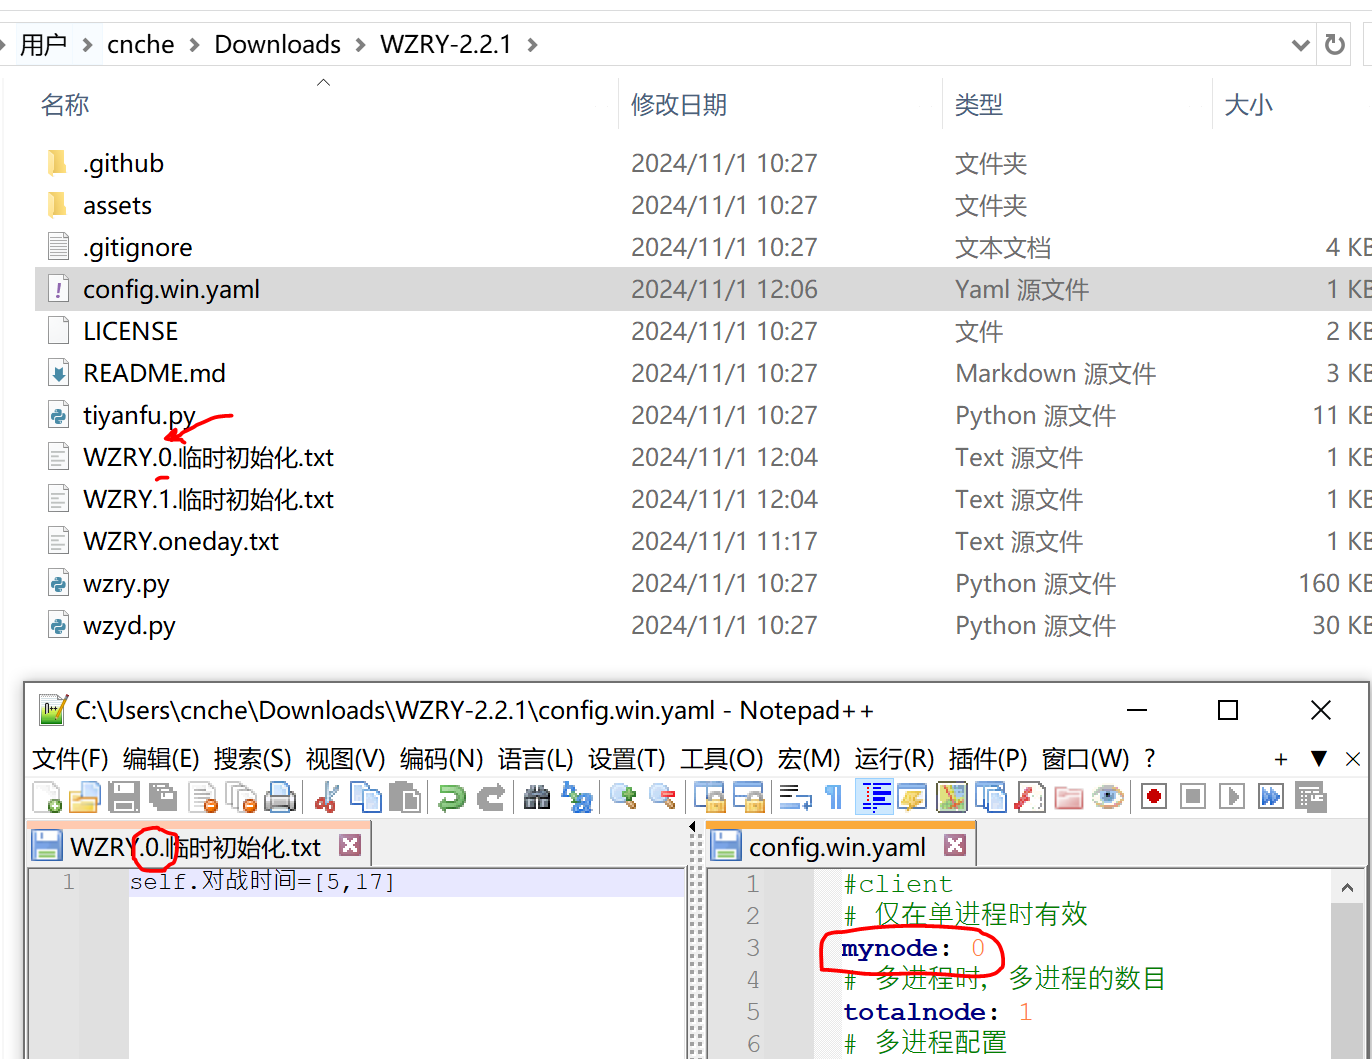
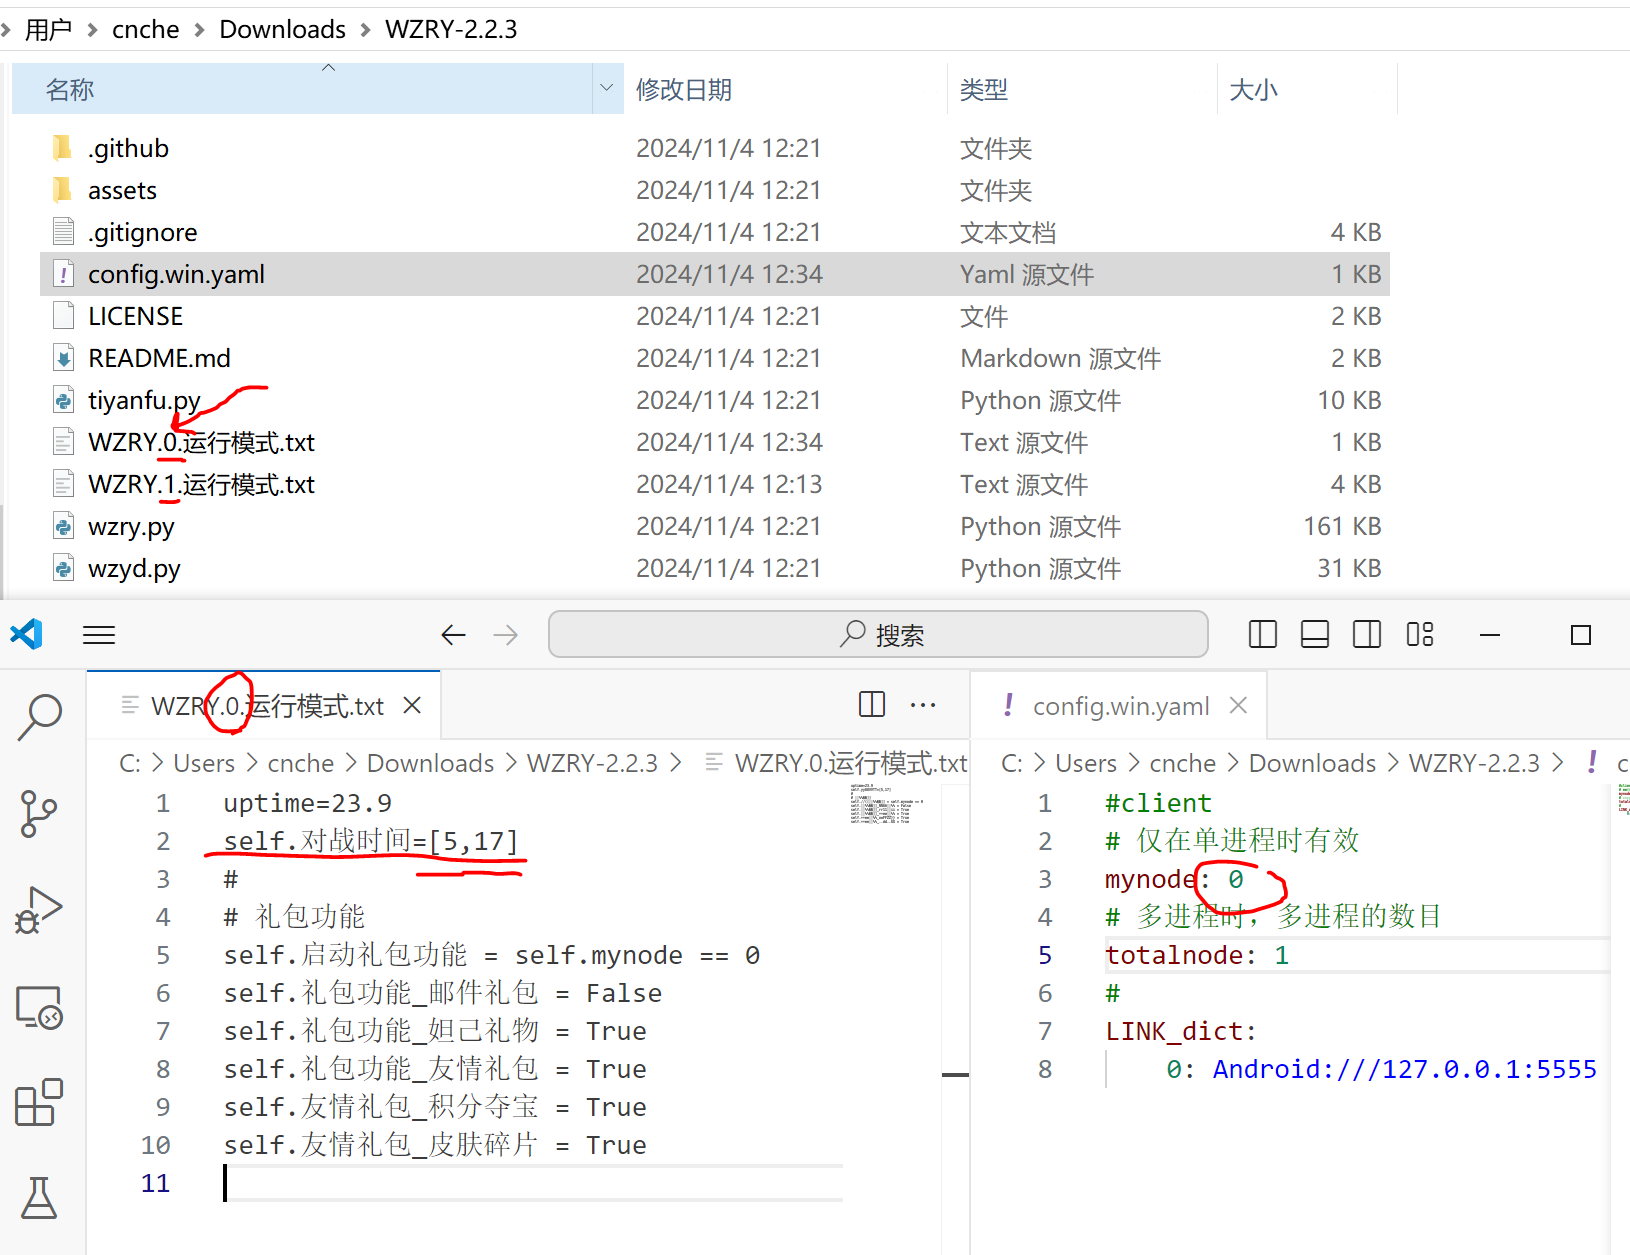
auto Mon Nov  4 12:42:15     2024

diff --git a/docs/exp/duizhanmoshi.md b/docs/exp/duizhanmoshi.md
@@ -1,0 +1,82 @@
+# 运行模式配置示例
+## 说明
+* 该页面是介绍我的使用经验,不是教程
+* 随着软件更新,这些经验可能不再适用
+* 谨慎阅读
+
+
+
+## 我在使用的`WZRY.0.运行模式.txt`
+```
+#................................................................................
+uptime=23.9
+self.对战时间=[1.0,uptime]
+self.限时组队时间=uptime
+#................................................................................
+#每天组队打0,1,2,...,nstep-1共nstep场，组队5v5匹配
+#每天组队打0,1,2,...,ostep-1共ostep场，单人5v5匹配|模拟战
+nstep=2
+ostep=3 if self.mynode == 0 else 1 # 为了获得更多的经验，可以将 ostep 设为模拟战 或者 0。
+self.对战模式="5v5匹配" if self.jinristep <  nstep else "模拟战" 
+# 组队模式
+self.组队模式 = self.组队模式 and self.jinristep < nstep
+if not self.组队模式: self.Tool.touchfile(self.无法进行组队FILE)
+#................................................................................
+# 结束游戏的判定
+endgame = self.jinristep >=  nstep+ostep
+if self.jinristep <= nstep and not self.组队模式 and self.totalnode_bak > 1: endgame = True
+if os.path.exists(self.青铜段位FILE): endgame = True # 只刷星耀局
+if endgame: self.对战时间[1]=self.对战时间[0]+0.1
+#................................................................................
+# 对战模式设置
+# 每天早上前一局，标准模式
+self.标准模式 = self.触摸对战 = False
+if self.组队模式 and self.jinristep <= 1: self.标准模式 = self.触摸对战 = True
+# 组队的时候不要赢，这样获得的战令经验不到上限，可以额外从营地领经验
+if self.组队模式 and self.Tool.time_getweek() <= 5: self.触摸对战 = True
+if self.组队模式: self.青铜段位 = os.path.exists(self.青铜段位FILE) or self.触摸对战
+#................................................................................
+# 选择对战线路和英雄
+分路名称=["对抗", "打野","中路","发育","游走"]
+index=(self.runstep+self.mynode)%len(分路名称)
+TimeECHO(f"本次{self.runstep}对战分路: {分路名称[index]}")
+#
+# 第(列,行)的英雄位置
+pos=[(6,5),(9,5),(4,4),(9,2),(2,4)][index]
+参战英雄头像坐标=(-0.54+pos[0]*0.09,-0.31+pos[1]*0.11)
+参战英雄线路坐标=[(-0.314, -0.26),  (-0.194, -0.26), (-0.069, -0.26), (0.037, -0.26),  (0.18, -0.26)][index]
+self.Tool.cal_record_pos(参战英雄头像坐标, self.移动端.resolution, "参战英雄头像", savepos=True)
+self.Tool.cal_record_pos(参战英雄线路坐标, self.移动端.resolution, "参战英雄线路", savepos=True)
+#................................................................................
+# 礼包功能
+self.启动礼包功能 = self.mynode == 0
+self.活动礼包 = False
+self.祈愿礼包 = False
+self.玉镖夺魁签到 = False
+self.每日任务礼包=self.Tool.time_getweek() > 5  # 战令末期不领取，前期周末领取 self.Tool.time_getweek() > 5
+self.礼包功能_邮件礼包 = False
+self.礼包功能_妲己礼物 = True
+self.礼包功能_友情礼包 = self.Tool.time_getweek() < 3
+self.友情礼包_积分夺宝 = True
+self.友情礼包_皮肤碎片 = True
+self.友情礼包_英雄碎片 = False
+self.友情礼包_铭文碎片 = False
+self.友情礼包_皮肤宝箱 = True
+self.友情礼包_回城宝箱 = True
+self.友情礼包_击败宝箱 = True
+# 外置礼包，暂无手册，遇到问题，请自行调试，已从主程序分离，不再领取
+self.外置礼包_王者营地 = False
+self.外置礼包_体验服 = False
+# 以下礼包不再维护，如果遇到问题，请自行调试
+self.礼包功能_战队礼包 = False
+self.礼包功能_商城礼包 = False
+self.礼包功能_KPL礼包 = False
+```
+
+
+## 我在使用的`WZRY.1.运行模式.txt`
+同`WZRY.0.运行模式.txt`
+```
+#cmd, 管理员建立软连接
+mklink  WZRY.1.运行模式.txt WZRY.0.运行模式.txt
+```
